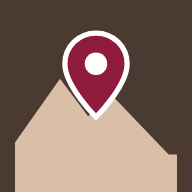
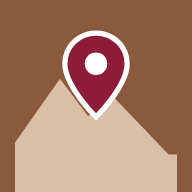
פלטה: חום אדמה חם ובהיר יותר
Claude-Session: https://claude.ai/code/session_013Kwds7u2CuKxLok7qAeEr5

diff --git a/index.html b/index.html
@@ -4,7 +4,7 @@
 <meta charset="utf-8">
 <meta name="viewport" content="width=device-width, initial-scale=1, viewport-fit=cover">
 <title>מפה לחיים טובים</title>
-<meta name="theme-color" content="#4a3a31">
+<meta name="theme-color" content="#8b5a3c">
 <meta name="description" content="מקומות שווים בכל הארץ: יקבים, מעיינות, תצפיות, אוכל טוב ועוד – מאת ליעד וולמן, מורה דרך מהגולן">
 <link rel="manifest" href="manifest.webmanifest">
 <link rel="icon" href="icons/icon-192.png" type="image/png">
@@ -24,8 +24,8 @@ COLOUR and TYPE: stone land, sea blue, deep olive for the chrome, category colou
 LAYOUT: a side panel on the right (search, regions, layers, list) and the map filling the rest; on a phone, map full screen with a pull-up sheet.
 */
 :root{color-scheme:light dark;
---bg:light-dark(#fbf8f4,#1a1613);--bg2:light-dark(#f1ebe3,#241e1a);--ink:light-dark(#2a221d,#efe7df);--mute:light-dark(#76685d,#a89a8e);
---line:light-dark(#e6ddd2,#3a312b);--brand:light-dark(#4a3a31,#d9bfa6);--brandInk:light-dark(#ffffff,#1a1613);--accent:light-dark(#b25a2e,#e08a5c);--accentInk:light-dark(#ffffff,#1a1613);
+--bg:light-dark(#fbf8f4,#1a1613);--bg2:light-dark(#f1ebe3,#241e1a);--ink:light-dark(#3a2a20,#efe7df);--mute:light-dark(#76685d,#a89a8e);
+--line:light-dark(#e6ddd2,#3a312b);--brand:light-dark(#8b5a3c,#d9a98a);--brandInk:light-dark(#ffffff,#1a1613);--accent:light-dark(#c06a35,#e8946a);--accentInk:light-dark(#ffffff,#1a1613);
 --land:light-dark(#f4f0e5,#1f2822);--land2:light-dark(#e4ddcc,#161c18);--sea:light-dark(#a9d3e0,#11303b);--water:light-dark(#3d8aa6,#6bb6cf);
 --bord:light-dark(#8f846c,#66766b);--lab:light-dark(#4f4a3d,#b4beb6);--reg:light-dark(#9a6a45,#c29a78);--shadow:light-dark(rgba(30,40,30,.18),rgba(0,0,0,.5))}
 :root[data-theme=light]{color-scheme:light}:root[data-theme=dark]{color-scheme:dark}
@@ -152,7 +152,7 @@ svg *{vector-effect:non-scaling-stroke}
   <aside class="panel" id="panel" aria-label="שכבות ורשימת מקומות">
     <button class="grab" id="grab" aria-label="סגירת החלונית"></button>
     <div class="brand">
-      <svg viewBox="0 0 44 44" aria-hidden="true"><circle cx="22" cy="22" r="22" fill="#4a3a31"/><path d="M7 31l9-13 6 8 4-5 11 10z" fill="#d9bfa6"/><path d="M22 9c-3.6 0-6.5 2.8-6.5 6.4 0 4.7 6.5 11.1 6.5 11.1s6.5-6.4 6.5-11.1C28.5 11.8 25.6 9 22 9z" fill="#8E1B3B" stroke="#fff" stroke-width="1.6"/><circle cx="22" cy="15.4" r="2.4" fill="#fff"/></svg>
+      <svg viewBox="0 0 44 44" aria-hidden="true"><circle cx="22" cy="22" r="22" fill="#8b5a3c"/><path d="M7 31l9-13 6 8 4-5 11 10z" fill="#d9bfa6"/><path d="M22 9c-3.6 0-6.5 2.8-6.5 6.4 0 4.7 6.5 11.1 6.5 11.1s6.5-6.4 6.5-11.1C28.5 11.8 25.6 9 22 9z" fill="#8E1B3B" stroke="#fff" stroke-width="1.6"/><circle cx="22" cy="15.4" r="2.4" fill="#fff"/></svg>
       <div><h1>מפה לחיים טובים</h1><p>יקבים, מעיינות, תצפיות ומקומות שווים בכל הארץ</p></div>
     </div>
     <div class="search">

diff --git a/sw.js b/sw.js
@@ -1,5 +1,5 @@
 // המפה של ליעד – עובד ברקע: שומר את האפליקציה לשימוש גם בלי קליטה
-const VERSION = 'v2';
+const VERSION = 'v3';
 const APP = 'liadmap-app-' + VERSION, TILES = 'liadmap-tiles';
 const SHELL = ['./', 'index.html', 'manifest.webmanifest', 'icons/icon-192.png', 'icons/icon-512.png'];
 
